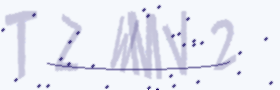
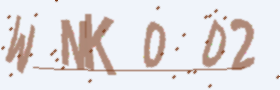
commit

diff --git a/SPCK/Windows/Eclahtee Note.py b/SPCK/Windows/Eclahtee Note.py
@@ -5,13 +5,17 @@ from PyQt6 import QtWidgets, QtGui, QtCore
 from PyQt6.QtGui import QFont, QMouseEvent
 from PyQt6.QtCore import QEvent
 """
+from captcha.image import ImageCaptcha
 from PyQt6.QtWidgets import *
 from PyQt6 import *
 from PyQt6.QtGui import *
 from PyQt6.QtCore import *
 from PyQt6 import uic
+from PIL import Image
 import webbrowser
 import importlib
+import random
+import string
 import sys
 
 #Gemini API (Import + Setup)
